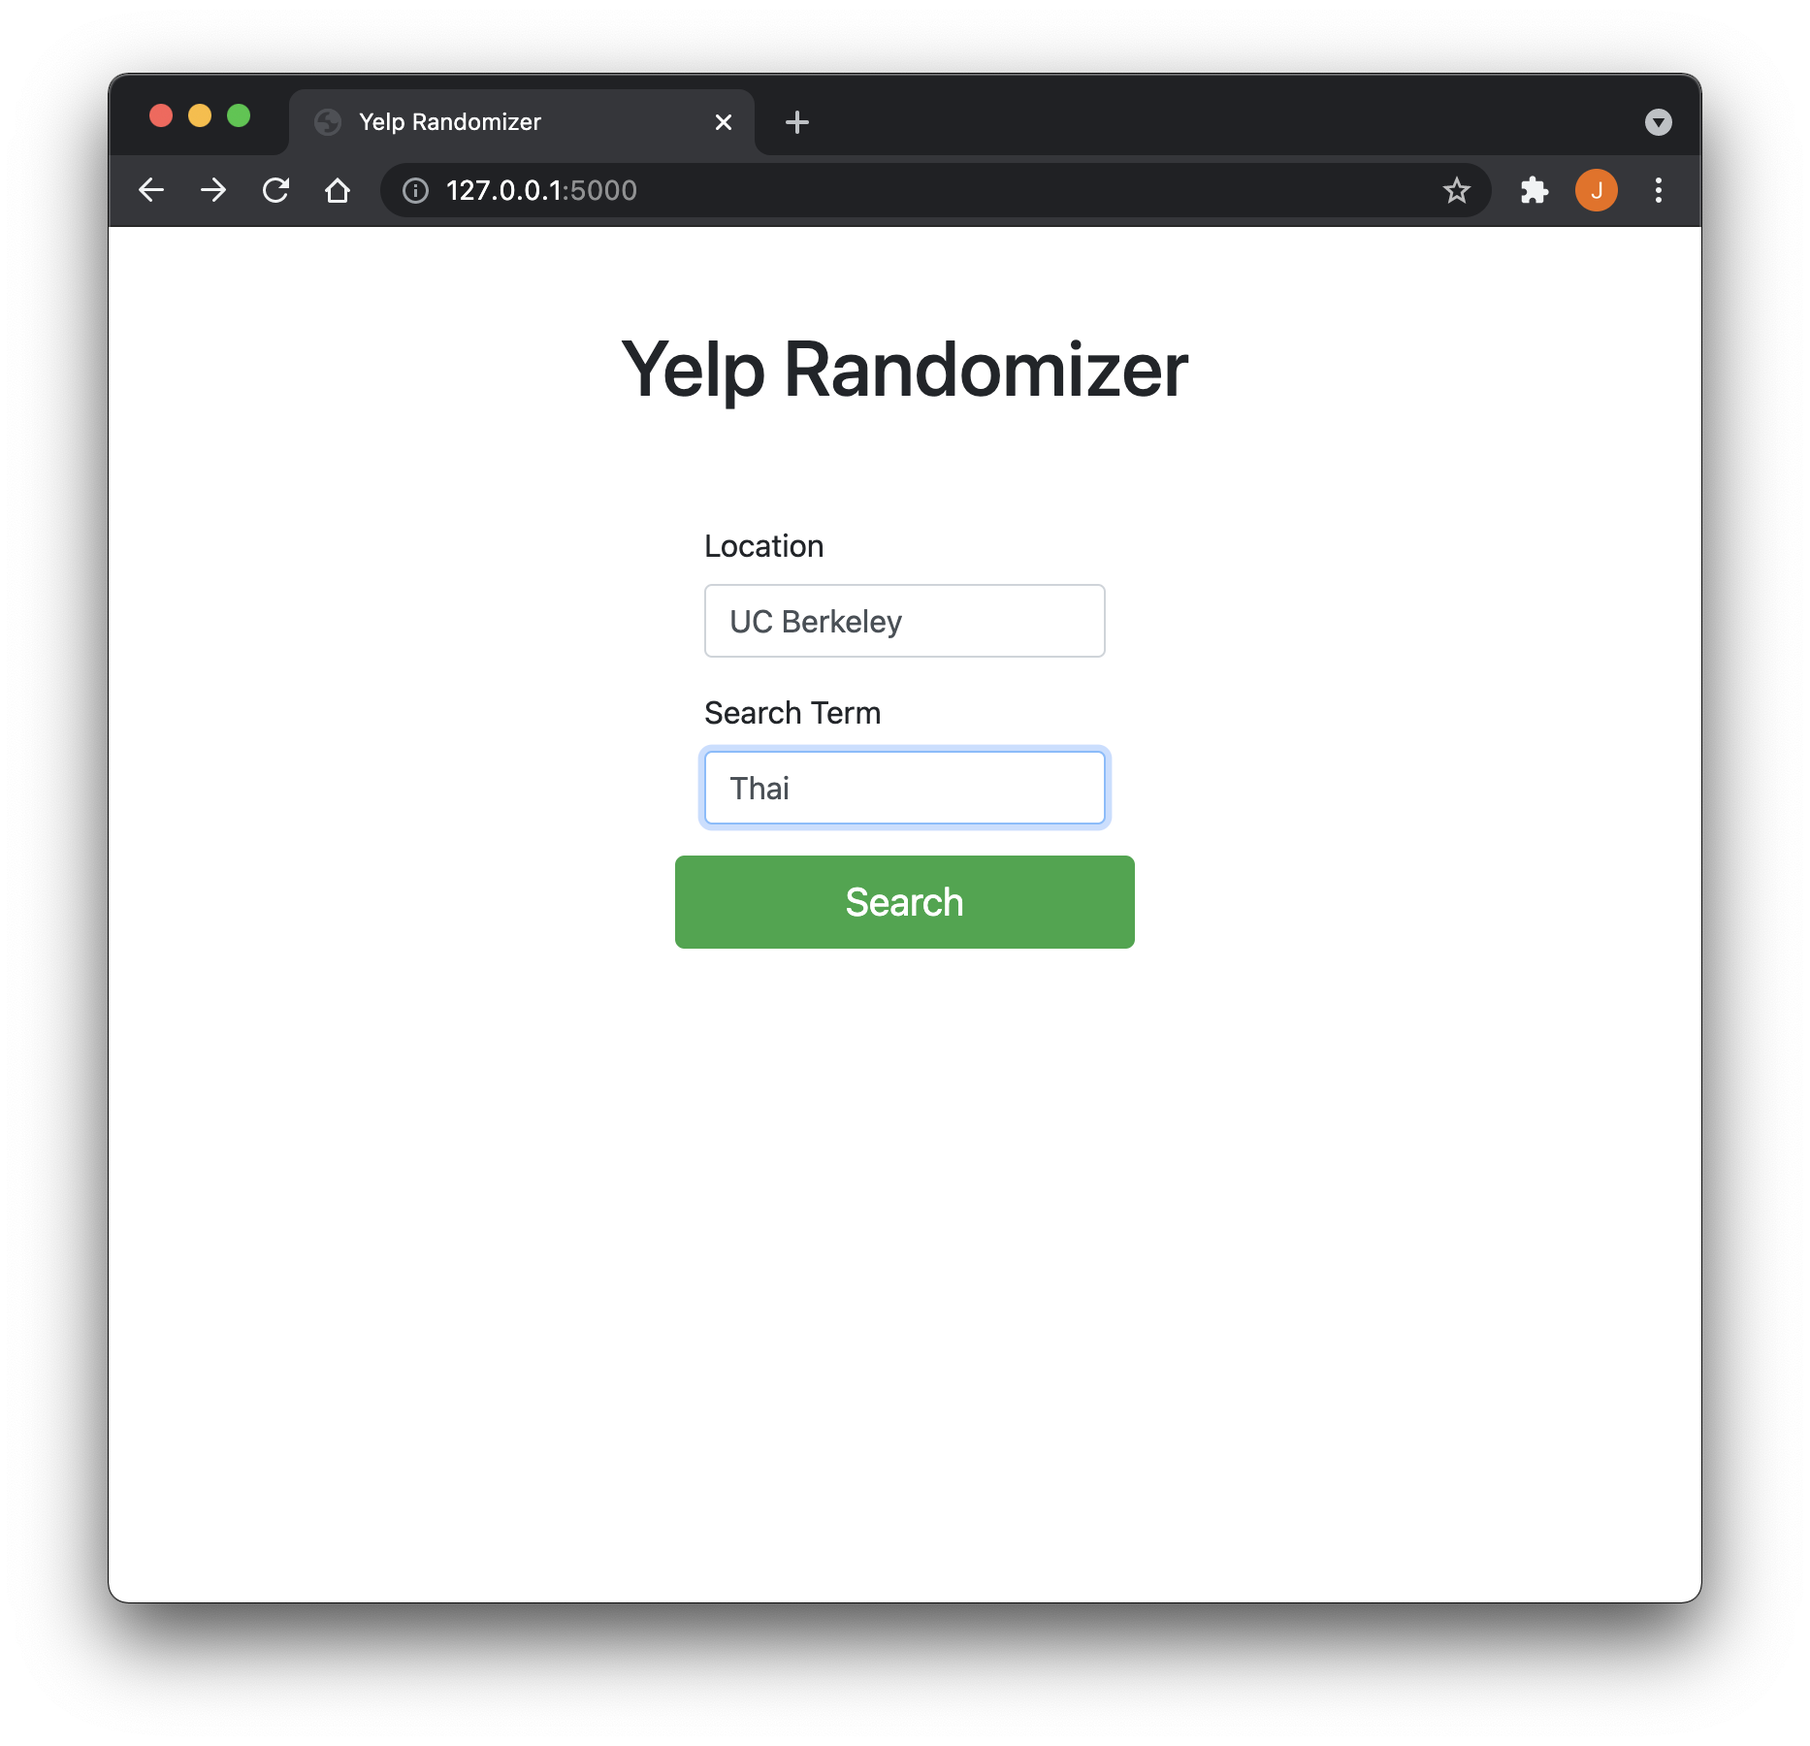
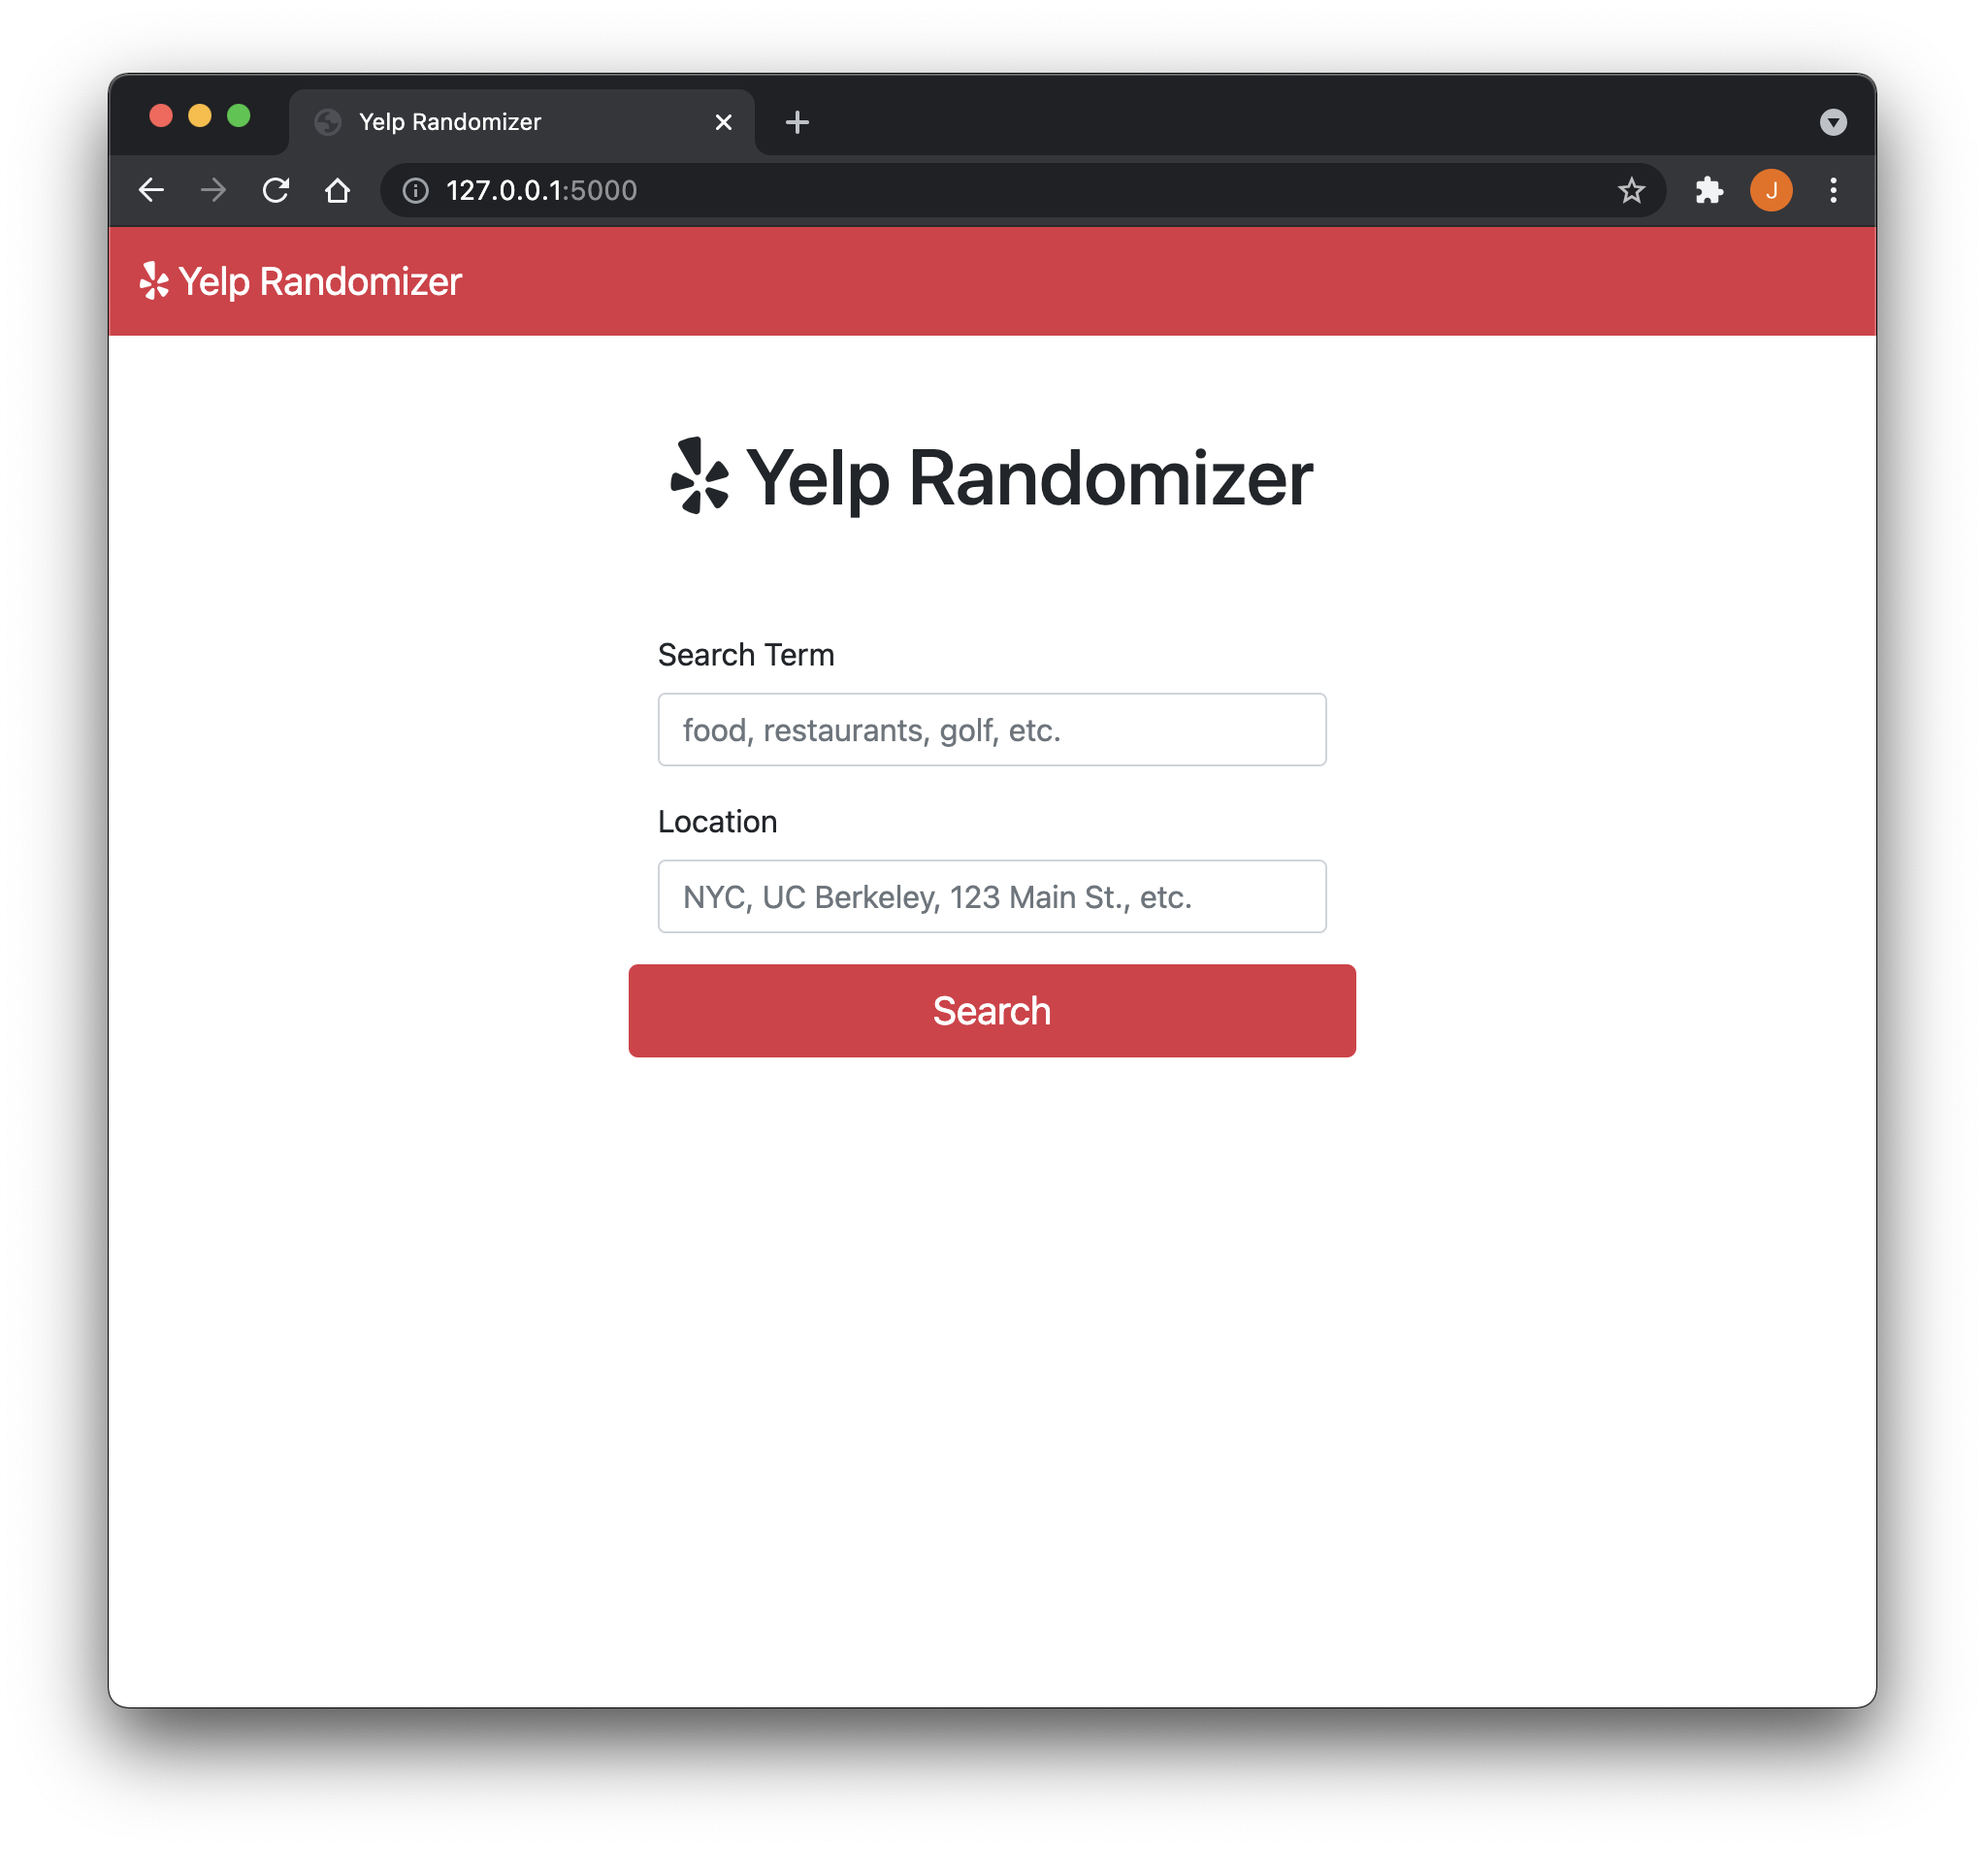
Update screenshots in README.md and make form width larger

Changed region(s): [[0.0311, 0.0311, 0.9636, 0.9333], [0.3108, 0.3111, 0.6838, 0.5911]]

diff --git a/templates/form.html b/templates/form.html
@@ -3,7 +3,7 @@
 <div class="row my-5 justify-content-center">
     <h1 class="title"><i class="fab fa-yelp"></i> Yelp Randomizer</h1>
 </div>
-<div style="width: 30%; margin: 25px auto;">
+<div style="width: 50%; margin: 25px auto;">
     <form action="/get_random_business" method="POST" autocomplete="off">
         <div class="form-group">
             <label for="term">Search Term</label>

diff --git a/README.md b/README.md
@@ -18,13 +18,13 @@ My friends and I always spend so much time just trying to decide on where to go,
 
 ## Preview
 
+### Web app interface
+
+![web-form](preview/web-form.png)
+![web-result](preview/web-result.png)
+
 ### CLI
 
 Here we can see that I entered "UC Berkeley" as my search location and specified that I was looking for "KBBQ". In the screenshot below, I ran the program twice with the same values so you can see that the output is randomized.
 
 ![preview](preview/berkeley-kbbq.png)
-
-### Web app interface
-
-![web-form](preview/web-form.png)
-![web-result](preview/web-result.png)
